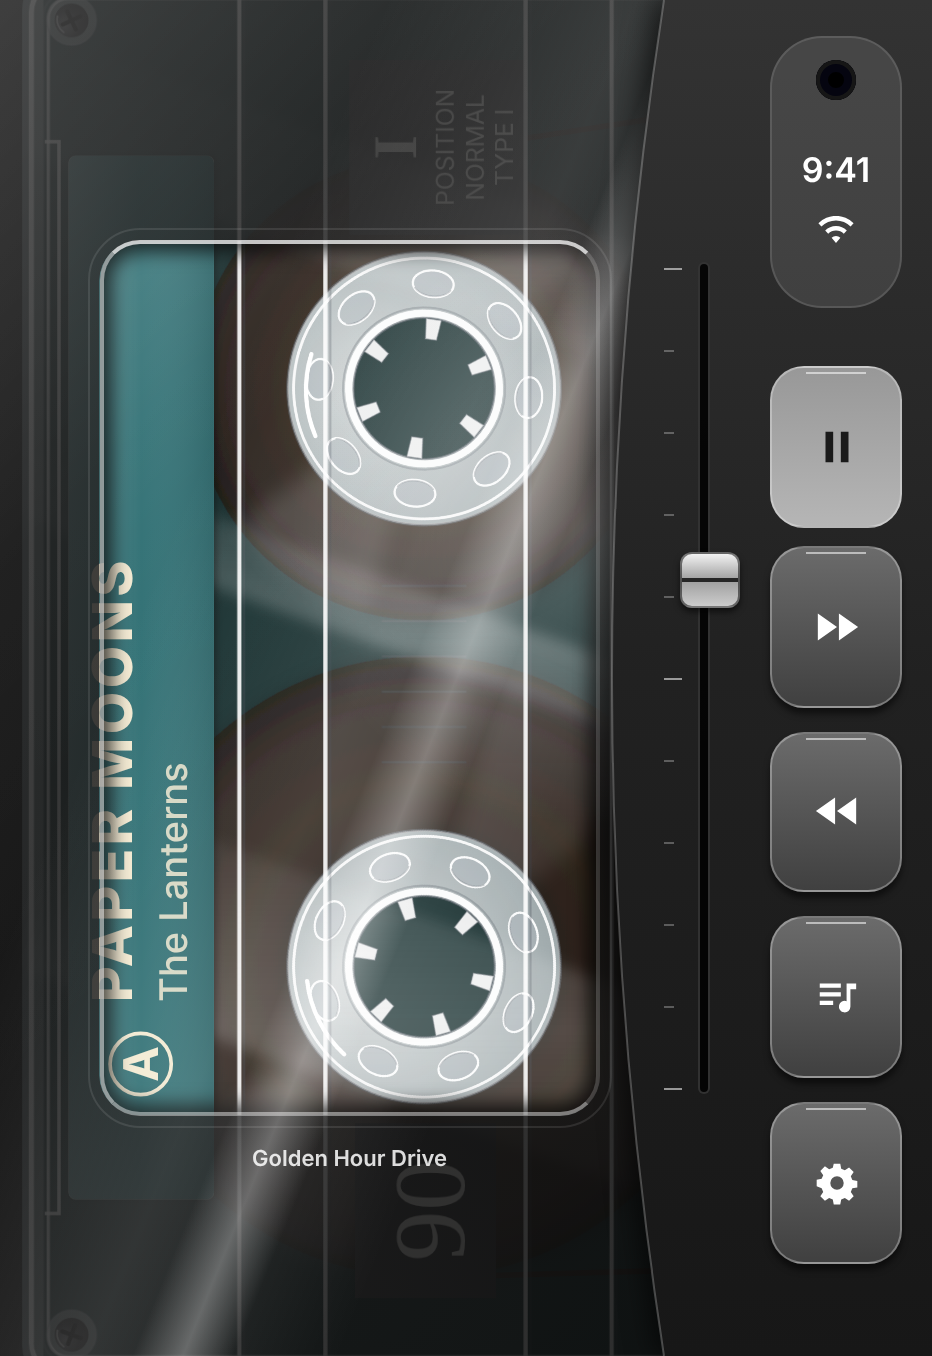
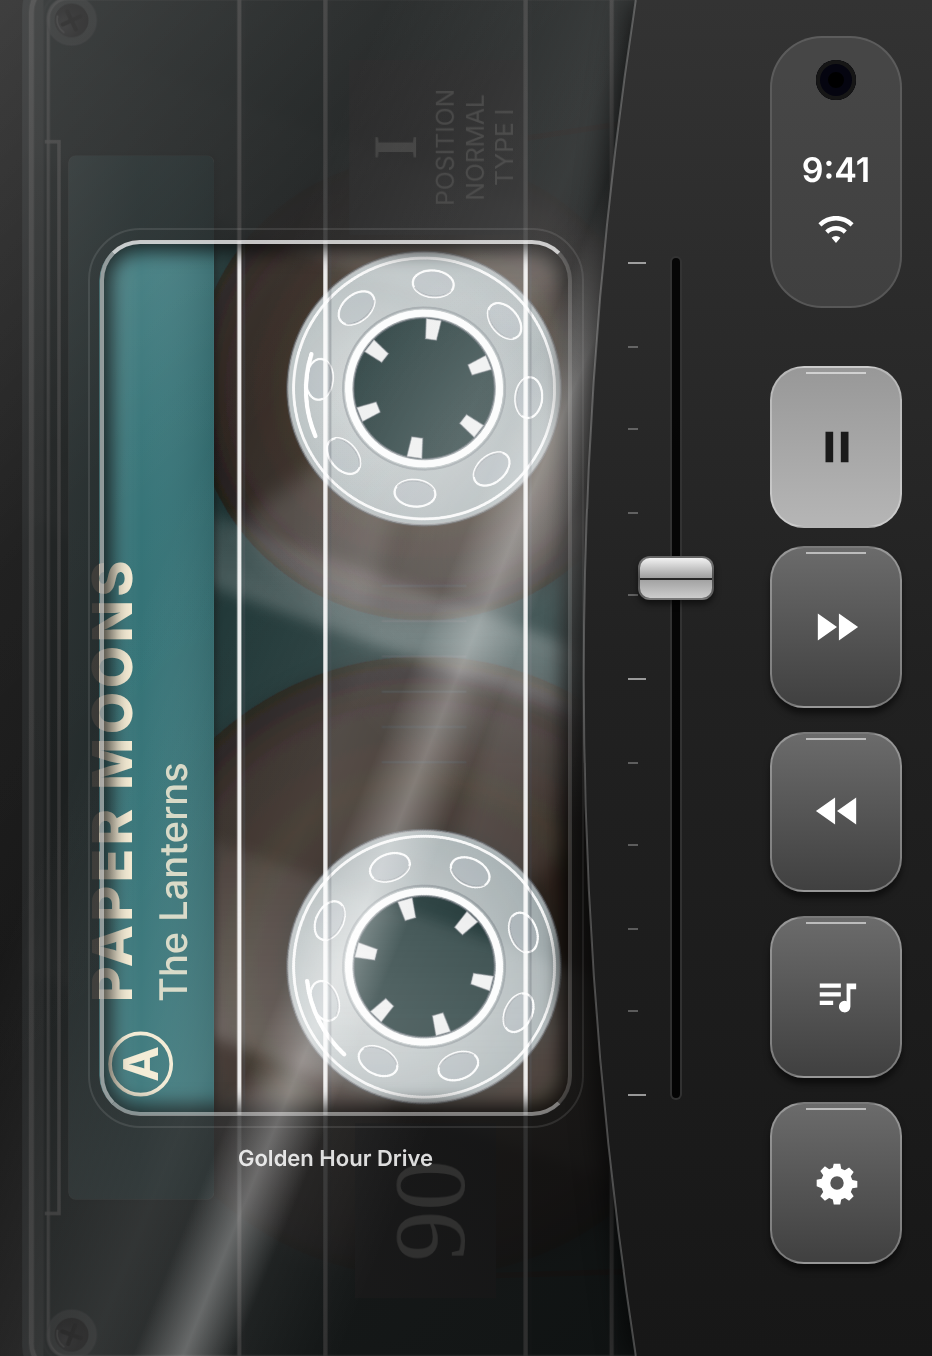
Narrow the window on the right, shift the panel and fader left, reshape the fader cap
The cap is wider and slimmer and sits centred on its groove.

Claude-Session: https://claude.ai/code/session_015CNmSEpanpmujmbPK8yXHv

Changed region(s): [[0.5912, 0.0929, 0.809, 0.8363], [0.2489, 0.8363, 0.4667, 0.8673]]

diff --git a/TapeDeck/DeckView.swift b/TapeDeck/DeckView.swift
@@ -86,8 +86,8 @@ struct DeckView: View {
             // Volume: on the solid panel, level with the window and as tall as it
             .overlay(alignment: .topLeading) {
                 VolumeFader(volume: volume)
-                    .frame(width: 40, height: window.height)
-                    .offset(x: railLeading ? panelWidth - 66 : full.width - panelWidth + 26, y: window.minY)
+                    .frame(width: 48, height: window.height)
+                    .offset(x: railLeading ? panelWidth - 70 : full.width - panelWidth + 22, y: window.minY)
             }
             .ignoresSafeArea()
         }
@@ -107,7 +107,7 @@ struct DeckView: View {
     /// The part of the cassette the window shows, in millimetres of its
     /// 100 x 63 shell: the label strip and both reels. Everything else, the
     /// ends, the guide rollers and the head opening, is under the casing.
-    private let windowOnCassette = CGRect(x: 19, y: 5.5, width: 62, height: 35.5)
+    private let windowOnCassette = CGRect(x: 19, y: 5.5, width: 62, height: 33.5)
 
     /// The cassette filling the whole screen (on end when the screen is
     /// taller than wide, head opening toward the keys), with the player's

diff --git a/TapeDeck/VolumeFader.swift b/TapeDeck/VolumeFader.swift
@@ -73,7 +73,8 @@ struct VolumeFader: View {
     @ObservedObject var volume: SystemVolume
     @State private var lastStep = -1
 
-    private let capHeight: CGFloat = 28
+    private let capHeight: CGFloat = 22
+    private let capWidth: CGFloat = 38
     private let steps = 16.0
 
     var body: some View {
@@ -107,9 +108,10 @@ struct VolumeFader: View {
                                          startPoint: .top, endPoint: .bottom))
                     .overlay(Rectangle().fill(Color(white: 0.15)).frame(height: 1.5))
                     .overlay(RoundedRectangle(cornerRadius: 6).strokeBorder(Color.black.opacity(0.5), lineWidth: 0.75))
-                    .frame(width: 30, height: capHeight)
+                    .frame(width: capWidth, height: capHeight)
                     .shadow(color: .black.opacity(0.55), radius: 3, y: 2)
-                    .offset(x: 3, y: capTop)
+                    // Centred on the groove
+                    .offset(y: capTop)
                     .frame(maxWidth: .infinity)
             }
             .contentShape(Rectangle())
